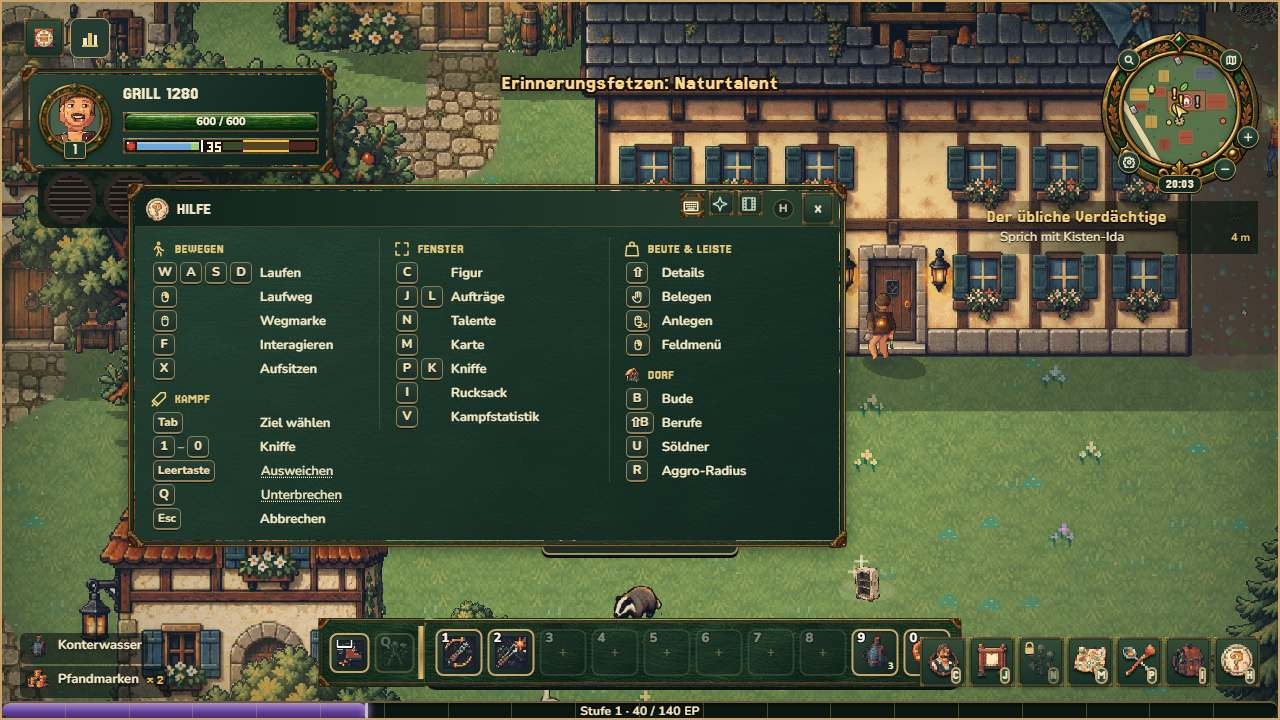
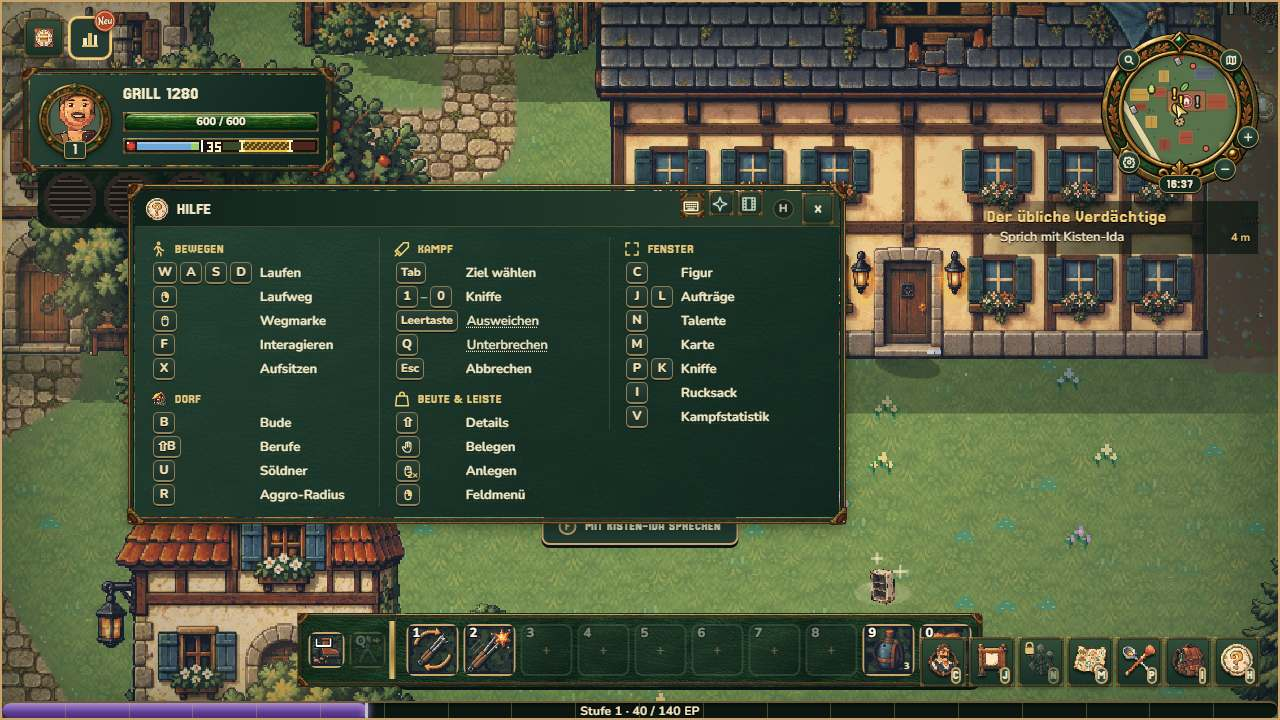
Heiler-WoW Teil 1: drei alte E-72-Befunde – Hilfe ohne Scrollen, Prüfungen an das gewollte Verhalten
- Hilfe (H) bei 1280 × 720 scrollte (Inhalt 314 px, Fenster 303 px): Spalten ausgeglichen
  (Bewegen + Dorf · Kampf + Beute & Leiste · Fenster = 9 · 9 · 7 Zeilen statt 10 · 7 · 8), jetzt 720 × 342 ohne Scrollen.
- e72-hofprobe-check: „Der Stempel“ erscheint je Browser nur einmal als Karte (MEMORY_POPUP_KEY, E-72 R5). Der zweite Held
  im selben Browser prüft jetzt die stille Freischaltung (keine Karte, gesehen, gemerkt); jede Größe startet mit frischem
  Browserstand, damit ihr erster Held die Karte sieht. 67/67.
- e72-klicks-check (Chat): Seit Dungeon-Fix 3 nehmen die unsichtbaren Reiter in Ruhe selbst einen Klick an (WoW-artig);
  der Messpunkt bei 40 % der Leistenbreite traf den Reiter „Ereignisse“. Gemessen wird jetzt die größte Lücke ohne Reiter.
  Das Spiel war richtig, die Prüfung veraltet. 104/104.

diff --git a/content/panel-ui.js b/content/panel-ui.js
@@ -111,7 +111,9 @@ export const DIALOG_UI={accept:'Annehmen',later:'Später',more:'Mehr',less:'Weni
 export const HELP_GRID={
  /** Runde 3b (Zielbild 3): Tastenbelegungsliste wie im Vorbild – je Zeile Kappe + ein Wort (label), Tooltip (note) nur bei Mehrwert.
   *  columns: welche Themen in welcher Spalte stehen (Desktop drei, Handy zwei). */
- columns:{desktop:[[0,1],[2],[3,4]],touch:[[0,1],[2]]},
+ /* Heiler-WoW (2026-09-26): Spalten ausgeglichen (9 · 9 · 7 Zeilen statt 10 · 7 · 8) – bei 1280 × 720 scrollte die Hilfe (Inhalt 314 px, Fenster 303 px).
+    Bewegen + Dorf (in der Welt), Kampf + Beute & Leiste (Tasten 1–0 und Belegen), Fenster allein. */
+ columns:{desktop:[[0,4],[1,3],[2]],touch:[[0,1],[2]]},
  tabs:[['keys','Tasten','keyboard','Alle Tasten auf einen Blick'],['kniffe','Kniffe','spark','Kniffe, Talente, Eigenarten und Stärkungen nachschlagen']],film:'Einführungsfilm ansehen',filmNote:'Der Film vom Anfang, noch einmal von vorn.',
  desktop:[
   ['Bewegen','run',[
